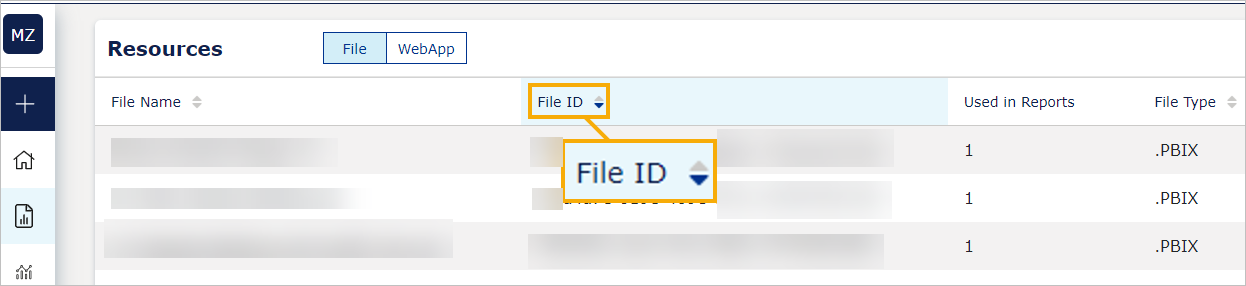
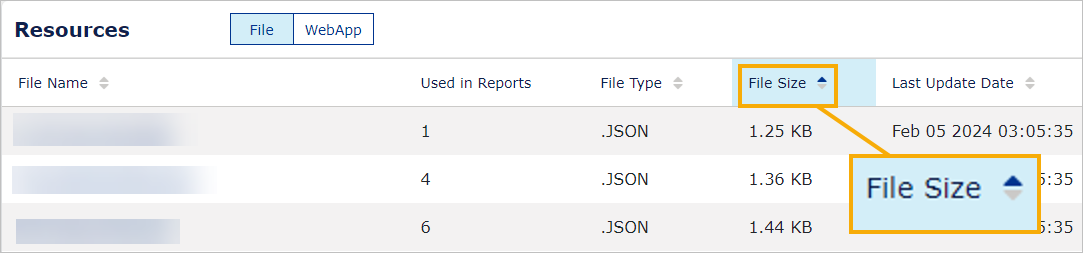
VAP releases notes changes.

diff --git a/sections/vap/admin-tab/configure.md b/sections/vap/admin-tab/configure.md
@@ -31,7 +31,7 @@ To edit tenant properties, select the **Edit** button and edit the fields you ne
 	
 	Enable manage filters - if you enable this default setting, a "Manage Filters" button will be shown under "Manage Reports", and you wil be able to configure reusable report filters for your users.
 	
-	Show dataset and report id - enable to show the ID of data sets and reports on Power BI reports in "Manage File".
+	Show dataset and report id - enable to show the ID of data sets and reports on Power BI reports in "Resources".
 	
 	Enable Power BI - enable Power BI in your VAP service.
 	
@@ -64,7 +64,7 @@ To add a scheduled refresh:
 6. In the **Apply to PBI reports**, select which Power BI files should use this refresh plan. Note that the files need to be stored in a cloud.
 7. Select the **Save & Apply** button.
 
-If you want to apply a refresh plan or change it to another, you can do so for each report under "Manage file" or in the "Configure" tab.
+If you want to apply a refresh plan or change it to another, you can do so for each report under "Resources" or in the "Configure" tab.
 
 ## Footer Properties
 
@@ -81,4 +81,4 @@ Note that to see the changes in footer, entity types or tenant properties, you n
 
 ## Tutorial Template
 
-Under "Tutorial Template", you can download a JSON template file for a tutorial. You can use it to walk your users through new reports and the latest changes. After modifying the template, upload it in [the "Manage Files" tab](manage-files.md) and connect it to the report in [the "Manage Reports" tab](manage-reports.md).
+Under "Tutorial Template", you can download a JSON template file for a tutorial. You can use it to walk your users through new reports and the latest changes. After modifying the template, upload it in [the "Resourcess" tab](manage-files.md) and connect it to the report in [the "Manage Reports" tab](manage-reports.md).

diff --git a/sections/vap/news/releasefeb24.md b/sections/vap/news/releasefeb24.md
@@ -54,10 +54,15 @@ Now, you select the plus icon in the left sidebar and  select the object you wan
 Now, the 'Manage File' page is called 'Resources'. For details, [see the updated documentation page](../admin-tab/resource.md).
 
 ### Removed Report ID on Resource
-On Resources, we have removed the 'Report ID' column.
+On Resources, we don't show the 'Report ID' ('File ID') column by default.
 
-### Added Last Update Date in Resources
-On Resources, we have added the 'Last Update Date' column. If there was no update to the resource, your VAP will show that the last update was in the year 2000. 
+To show this column on your reports:
+1. Go to the **Config** tab.
+2. Edit **Tenant Properties**.
+3. Under **Notified Group**, toggle **Show dataset and report id**.
+
+### Added Upload Date and Last Update Date in Resources
+On Resources, we have added the 'Upload Date' and 'Last Update Date' column. If there was no update to the resource, your VAP will show that the last update was in the year 2000. 
 
 ### Merged Manage Web into Resources
 Now, the 'Manage Web' page is a part of the 'Resources' page. For details, [see the updated documentation page](../admin-tab/resource.md).

diff --git a/sections/vap/news/releases_4.9_to_4.11.md b/sections/vap/news/releases_4.9_to_4.11.md
@@ -1,0 +1,9 @@
+---
+author: Veracity
+description: This is the changelog for the releases 4.9 to 4.11 of Veracity Adapter for Power BI (VAP).
+---
+# Releases 4.9 to 4.11
+
+Read this page to learn what has changed in the Veracity Adapter for Power BI. 
+
+The releases from 4.9 to 4.11 delivered technical and security improvements. Since these changes happened 'behind the stage' and the users don't need to know the details to benefit from them, we're not describing them in detail.
